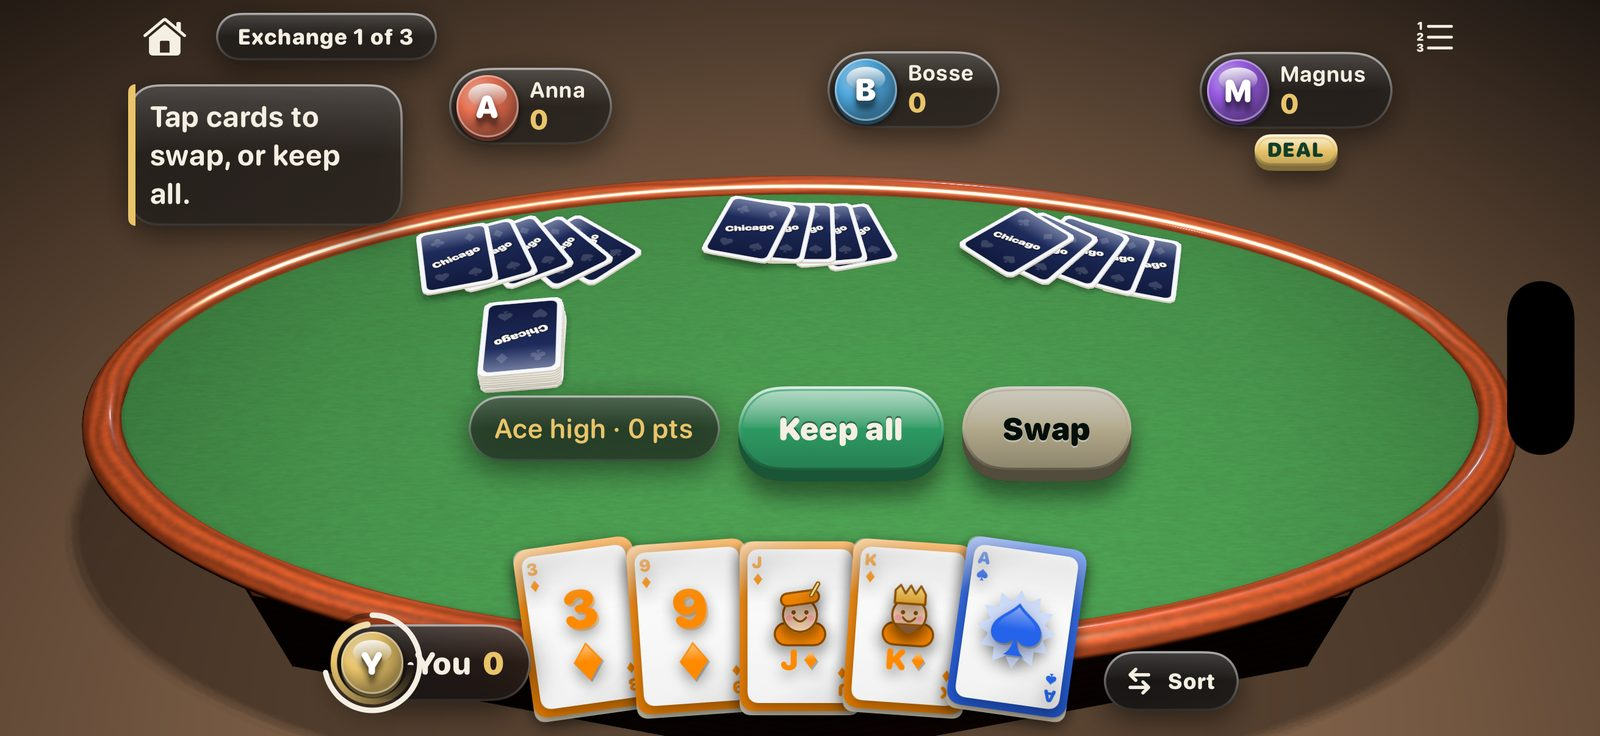
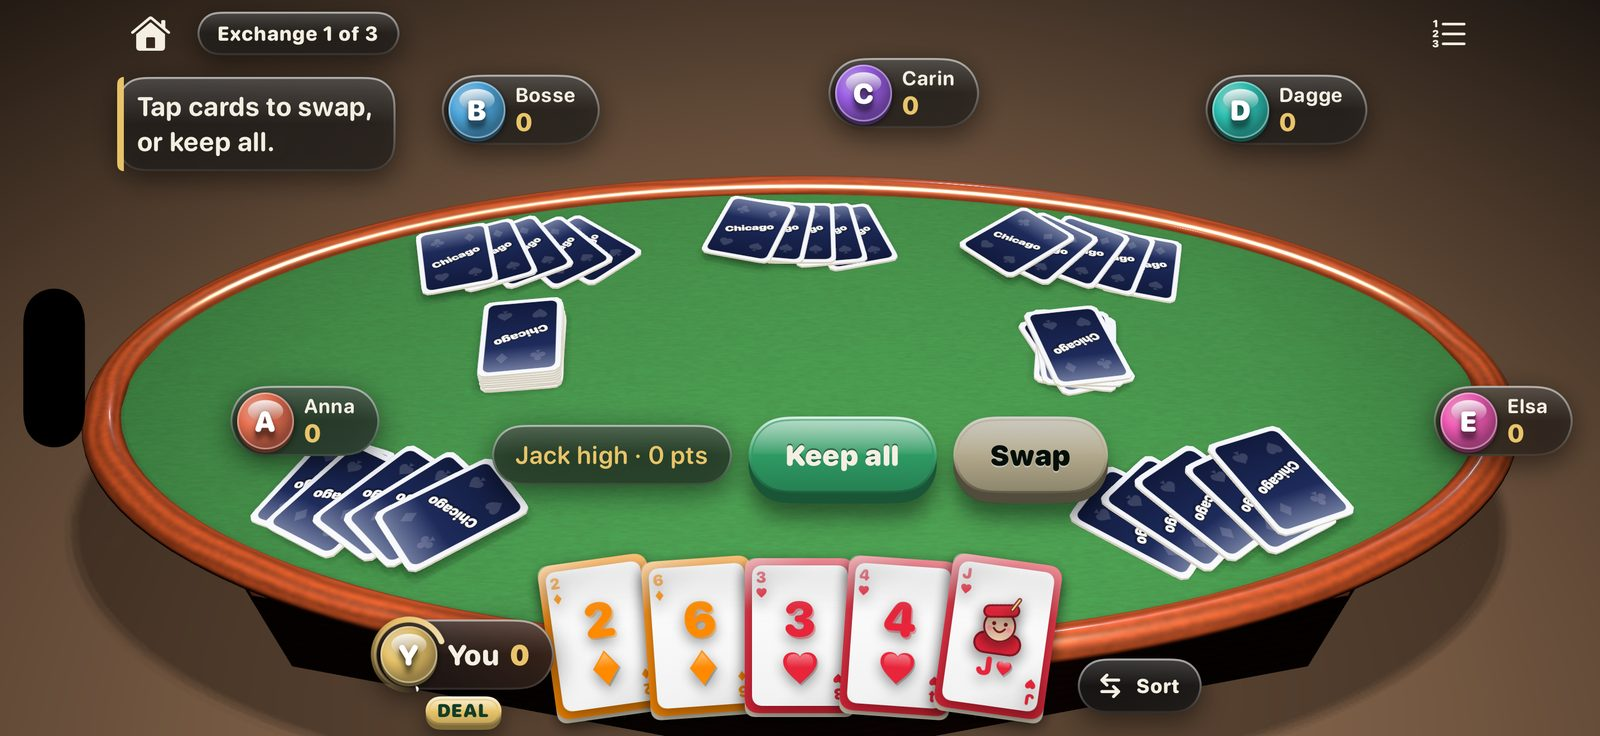
Use fresh screenshots from the current build
New 2868x1320 captures from the latest app code (chicago-app c58a374,
taken on an iPhone 18 Pro Max simulator): home, a six-player trick, the
exchange, the hand summary and the Call Chicago choice, which replaces
the card-style settings shot. The share image uses the new trick shot.

Claude-Session: https://claude.ai/code/session_01StYdwu2muqJgzP26zZLZqB

diff --git a/index.html b/index.html
@@ -61,10 +61,10 @@
       <h2 id="shots-h">Take a seat</h2>
       <p class="sub">A real 3D card table, chunky cartoon cards and up to six players around the felt.</p>
       <div class="shots" tabindex="0" aria-label="Screenshots, scroll sideways for more">
-        <figure><img src="assets/screens/2-trick.jpg" alt="A trick in progress at a six-seat oval table, with your hand of cards at the bottom" width="1600" height="736" loading="lazy"><figcaption>Five tricks a hand. Take the last one for 5 points.</figcaption></figure>
-        <figure><img src="assets/screens/3-exchange.jpg" alt="The exchange round: tap cards to swap or keep all, with the current hand shown as Ace high" width="1600" height="736" loading="lazy"><figcaption>Three rounds of swaps to build your poker hand.</figcaption></figure>
-        <figure><img src="assets/screens/4-scores.jpg" alt="Hand summary showing Anna scoring 17 points with three aces and the last trick" width="1600" height="736" loading="lazy"><figcaption>Every point explained after each hand.</figcaption></figure>
-        <figure><img src="assets/screens/5-card-styles.jpg" alt="Settings with two card styles, Sticker and Classic, and house rule switches" width="1600" height="736" loading="lazy"><figcaption>Two card styles, and the rules your way.</figcaption></figure>
+        <figure><img src="assets/screens/2-trick.jpg" alt="Trick 2 of 5 at a six-player oval table, five cards played in the middle and your hand at the bottom" width="1600" height="736" loading="lazy"><figcaption>Five tricks a hand. Take the last one for 5 points.</figcaption></figure>
+        <figure><img src="assets/screens/3-exchange.jpg" alt="Exchange 1 of 3: tap cards to swap or keep all, with your five cards at the bottom" width="1600" height="736" loading="lazy"><figcaption>Three rounds of swaps to build your poker hand.</figcaption></figure>
+        <figure><img src="assets/screens/4-scores.jpg" alt="Hand summary for six players: Anna scores 19 with two pair, a full house and the last trick" width="1600" height="736" loading="lazy"><figcaption>Every point explained after each hand.</figcaption></figure>
+        <figure><img src="assets/screens/5-call-chicago.jpg" alt="The Call Chicago choice: your hand, Pass and Call Chicago buttons, and the rule: win all 5 tricks for 15 points, lose one for minus 15" width="1600" height="736" loading="lazy"><figcaption>Feeling lucky? Call Chicago and take all five.</figcaption></figure>
         <figure><img src="assets/screens/1-home.jpg" alt="Home screen with the Chicago logo and buttons for New game, Play online, Stats, Rules and Settings" width="1600" height="736" loading="lazy"><figcaption>New game, play online, stats and the full rules.</figcaption></figure>
       </div>
       <p class="hint" aria-hidden="true">Swipe for more →</p>
